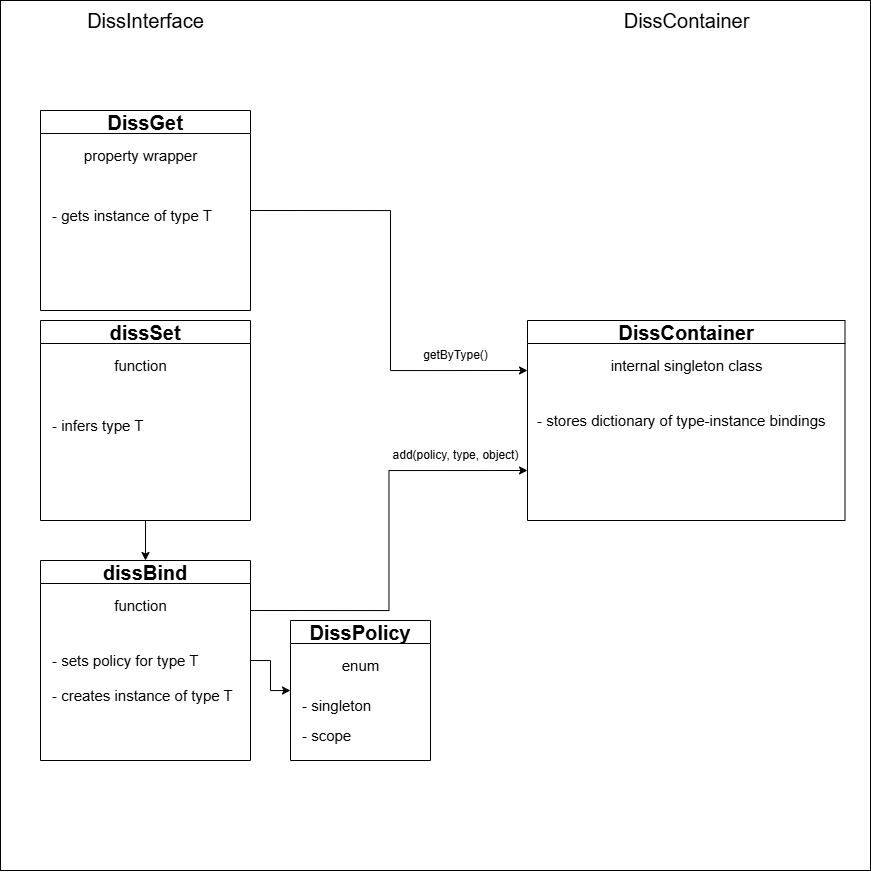
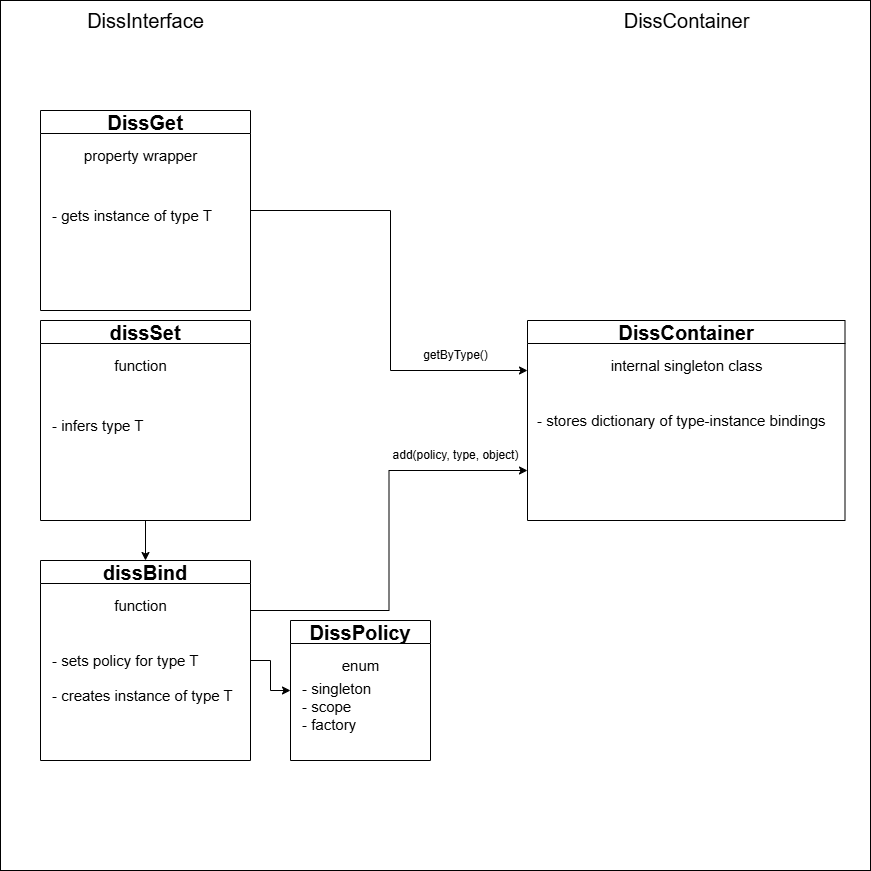
Add factory policy

diff --git a/Sources/Diss/DissContainer.swift b/Sources/Diss/DissContainer.swift
@@ -3,10 +3,11 @@ import Logging
 
 private let logger = Logger(label: "diss")
 
-internal class DissContainer: @unchecked Sendable {
+internal class DissContainer {
   internal static let instance = DissContainer()
   private var instances: [ObjectIdentifier: Any] = [ObjectIdentifier: Any]()
   private var scopes: [ObjectIdentifier: () -> Any] = [ObjectIdentifier: () -> Any]()
+  private var factories: [ObjectIdentifier: () -> Any] = [ObjectIdentifier: () -> Any]()
 
   private init() {}
 
@@ -26,19 +27,36 @@ internal class DissContainer: @unchecked Sendable {
     scopes[key] = initializer
   }
 
+  internal func addFactory<T>(type: T.Type, initializer: @escaping () -> T) throws {
+    let key = ObjectIdentifier(type)
+    guard instances[key] == nil && scopes[key] == nil else {
+      throw DissError.multipleSet(type: "\(T.self)")
+    }
+    factories[key] = initializer
+  }
+
   internal func getByType<T>(type: T.Type) -> T? {
     let key = ObjectIdentifier(type)
     logger.debug("TYPE in getByType: '\(key)'")
     var findedObject = instances[key] as? T
     logger.debug("Finded in instances: \(String(describing: findedObject))")
-    
-    if findedObject == nil {
-      let initializer = scopes[key]
-      findedObject = initializer?() as? T
-      if findedObject != nil {
-        logger.debug("Scope object created: \(String(describing: findedObject!))")
-      }
+    if findedObject != nil {
+      return findedObject
     }
+
+    findedObject = scopes[key]?() as? T
+    if findedObject != nil {
+      logger.debug("Scope object created: \(String(describing: findedObject!))")
+      return findedObject
+    }
+
+    findedObject = factories[key]?() as? T
+    if findedObject != nil {
+      logger.debug("Factory object created: \(String(describing: findedObject!))")
+      instances[key] = findedObject
+      return findedObject
+    }
+
     return findedObject
   }
 
@@ -55,6 +73,8 @@ internal class DissContainer: @unchecked Sendable {
     logger.debug("DissContainer destroyed")
   }
 }
+
+extension DissContainer: @unchecked Sendable {}
 
 internal func dissReset() {
   DissContainer.instance.reset()

diff --git a/Sources/Diss/DissInterface.swift b/Sources/Diss/DissInterface.swift
@@ -26,10 +26,13 @@ public func dissBind<T>(type: T.Type, policy: DissPolicy, initializer: @escaping
   case .scope:
     try DissContainer.instance.addScope(type: T.self, initializer: initializer)
 
+  case .factory:
+    try DissContainer.instance.addFactory(type: T.self, initializer: initializer)
+
   }
 
 }
 
 public enum DissPolicy: Equatable {
-  case singleton, scope
+  case singleton, scope, factory
 }

diff --git a/Tests/DissTests/DissTests.swift b/Tests/DissTests/DissTests.swift
@@ -75,6 +75,21 @@ import Testing
 
   }
 
+  @Test func testSetFactorySuccess() {
+    do {
+      try dissSet(policy: .factory) { ServiceImpl() }
+    } catch {
+      print(error)
+    }
+
+    @DissGet
+    var service1: ServiceImpl?
+    service1?.number = 2
+    @DissGet
+    var service2: ServiceImpl?
+    #expect(service2?.number == 2)
+  }
+
   deinit {
     dissReset()
   }

diff --git a/README.md b/README.md
@@ -6,6 +6,7 @@
 Функция `dissBind(type, policy) { initializer() }` - Добавляет в DI контейнер объект типа T (тип задаётся пользователем).<p>
 `DissPolicy` - Предоставляет возможные режимы доступа к объекту:<p>
 `singleton` - При попытке получить объект из контейнера будет возвращаться один и тот же экземпляр (доступно только для классов).<p>
-`scope` - При попытке получить объект из контейнера будет возвращаться новый объект.
+`scope` - При попытке получить объект из контейнера будет возвращаться новый объект.<p>
+`factory` - При попытке получить объект из контейнера будет возвращаться новый объект если он ещё не был создан или уже существующий в контейнере объект.<p>
 ### Архитектура
 ![Архитектура](docs/DissArchitecture.png "Архитектура")
